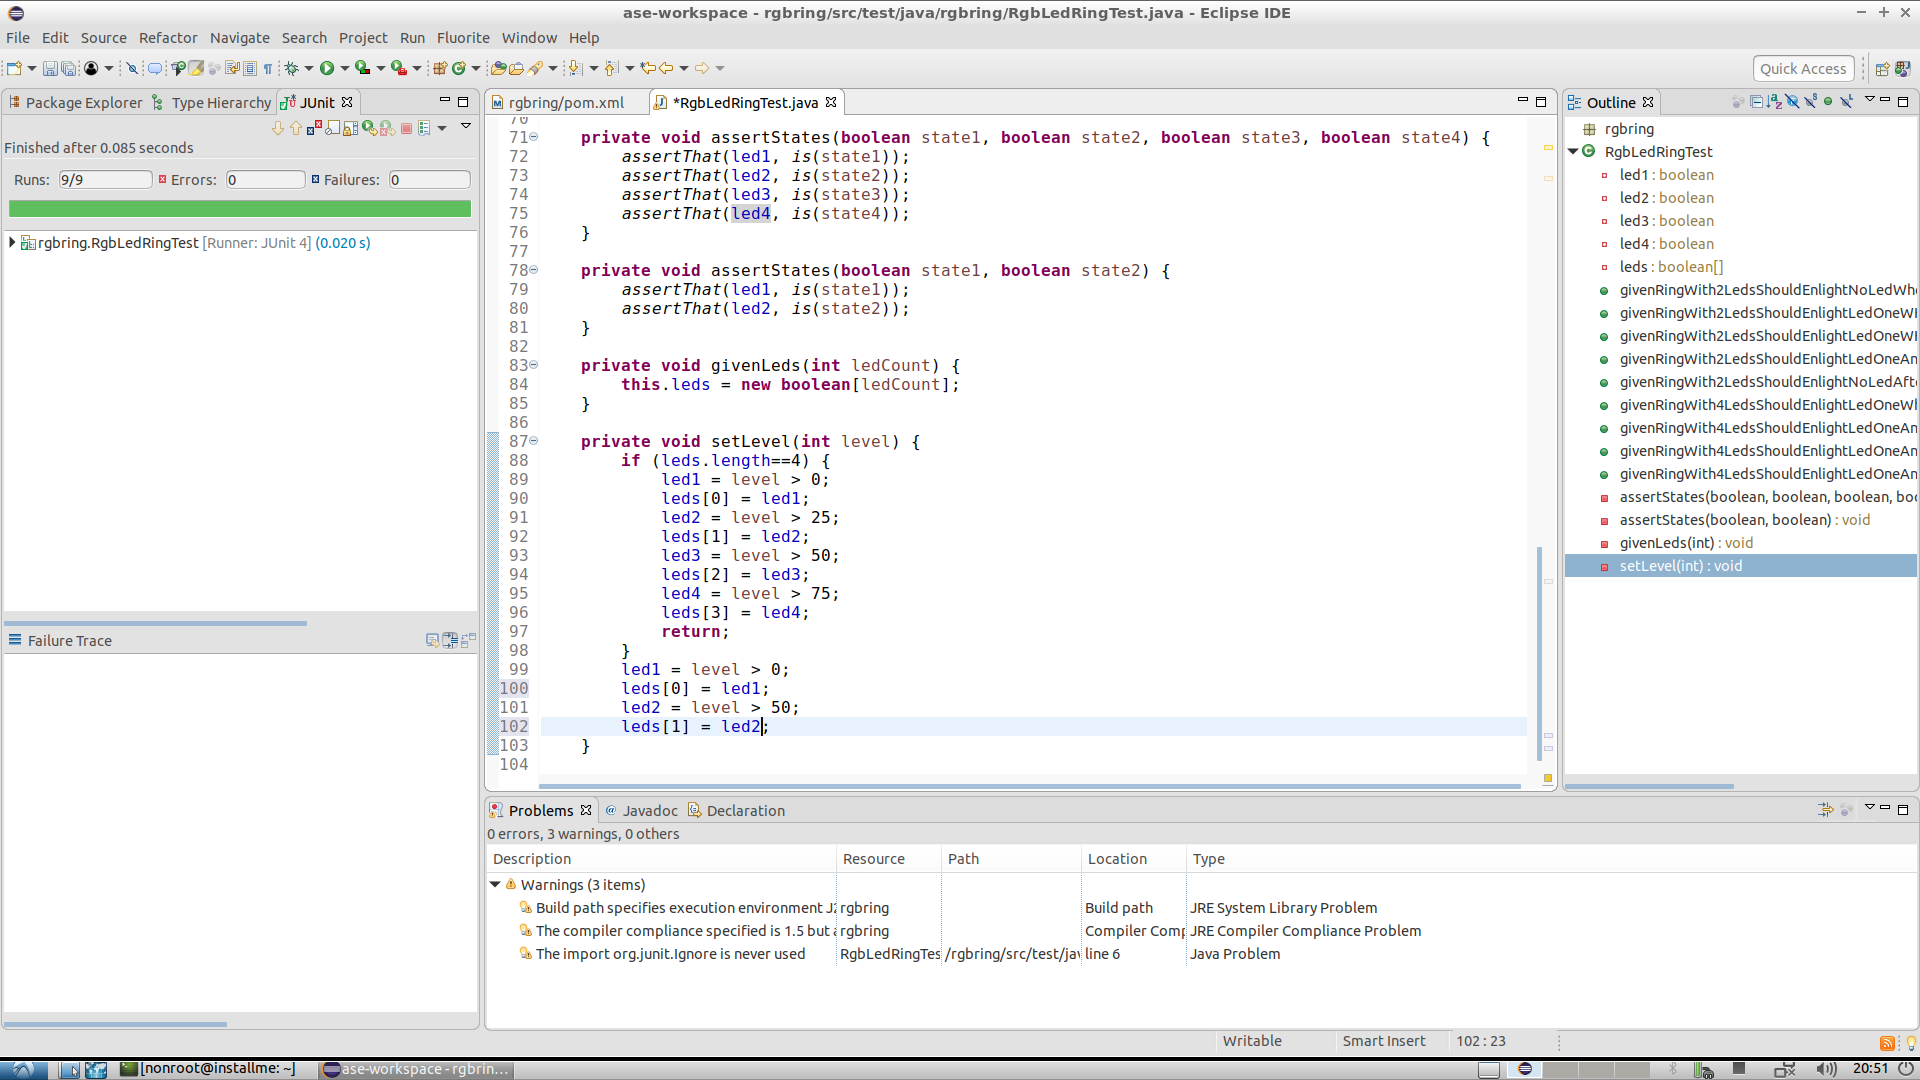
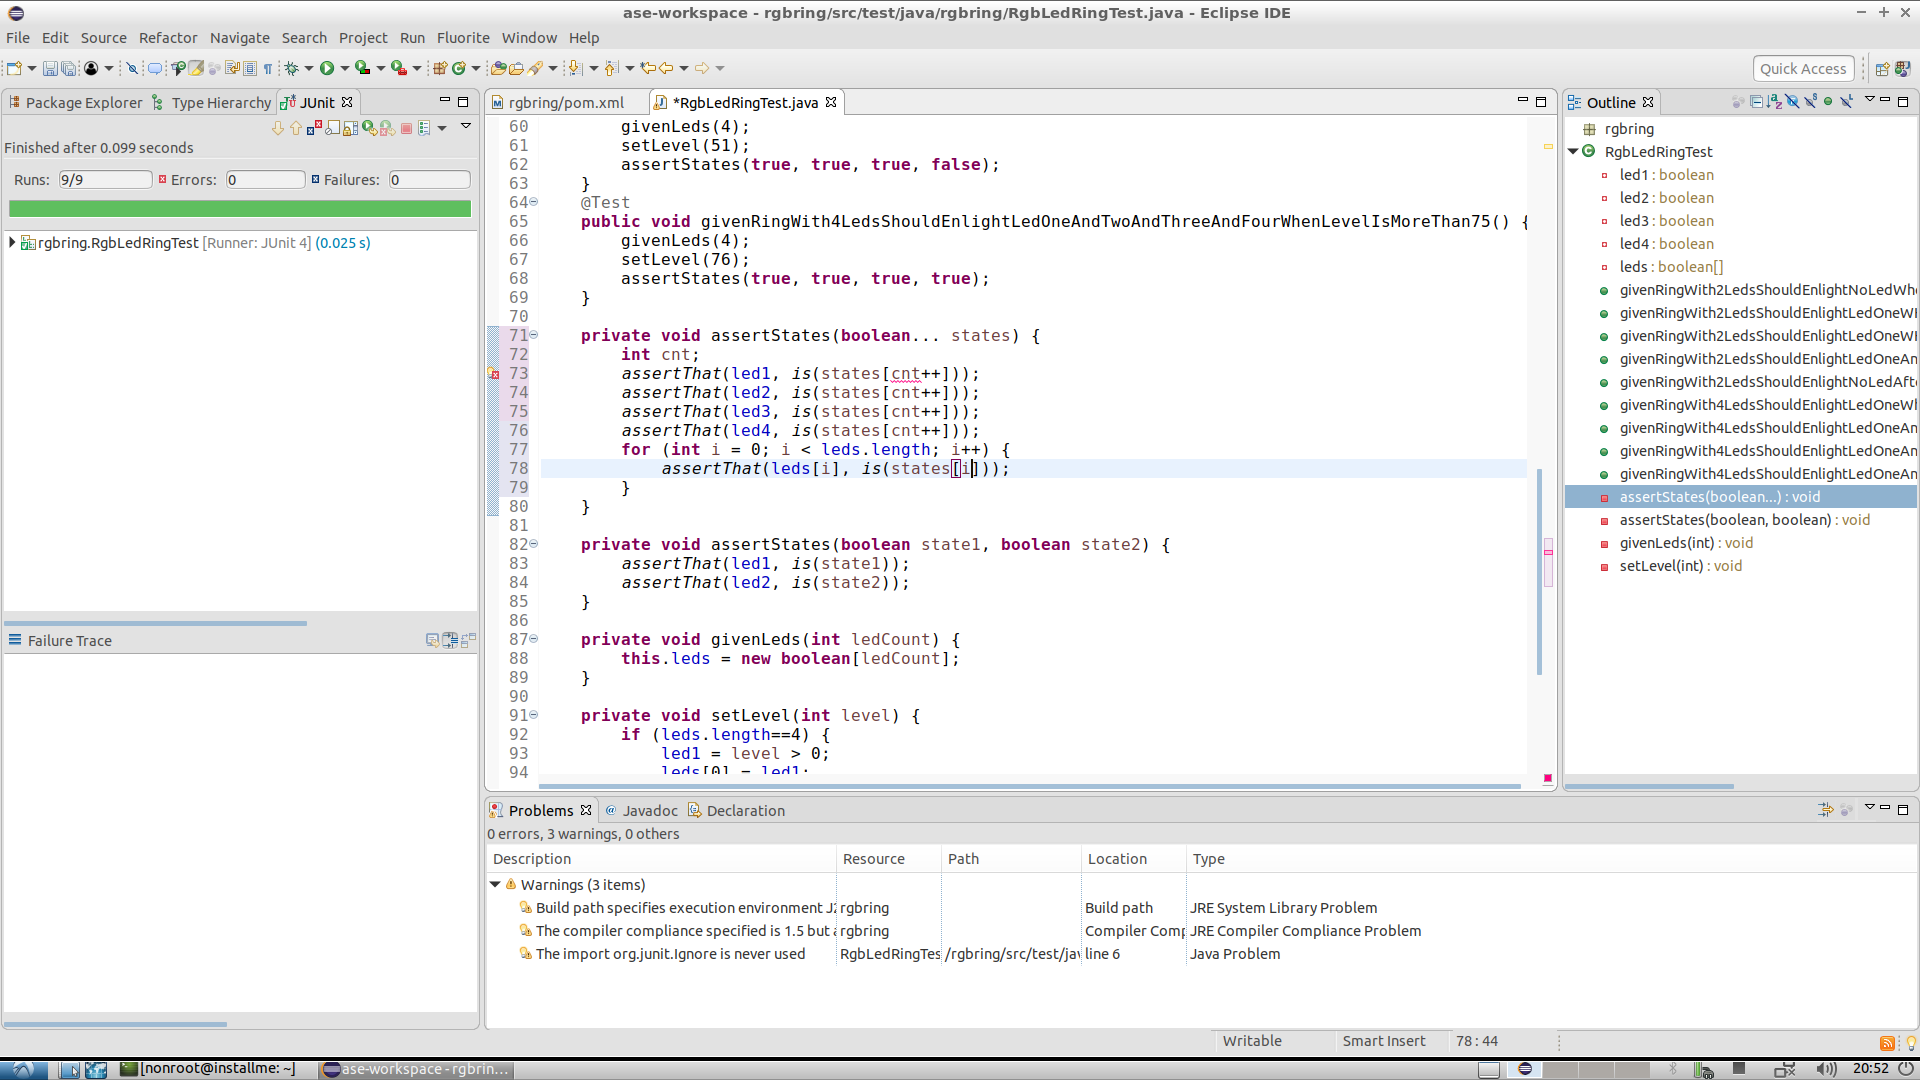
autocommit on change

diff --git a/src/test/java/rgbring/RgbLedRingTest.java b/src/test/java/rgbring/RgbLedRingTest.java
@@ -68,11 +68,15 @@ public class RgbLedRingTest {
 		assertStates(true, true, true, true);
 	}
 
-	private void assertStates(boolean state1, boolean state2, boolean state3, boolean state4) {
-		assertThat(led1, is(state1));
-		assertThat(led2, is(state2));
-		assertThat(led3, is(state3));
-		assertThat(led4, is(state4));
+	private void assertStates(boolean... states) {
+		int cnt;
+		assertThat(led1, is(states[cnt++]));
+		assertThat(led2, is(states[cnt++]));
+		assertThat(led3, is(states[cnt++]));
+		assertThat(led4, is(states[cnt++]));
+		for (int i = 0; i < leds.length; i++) {
+			assertThat(leds[i], is(states[i]));
+		}
 	}
 
 	private void assertStates(boolean state1, boolean state2) {
